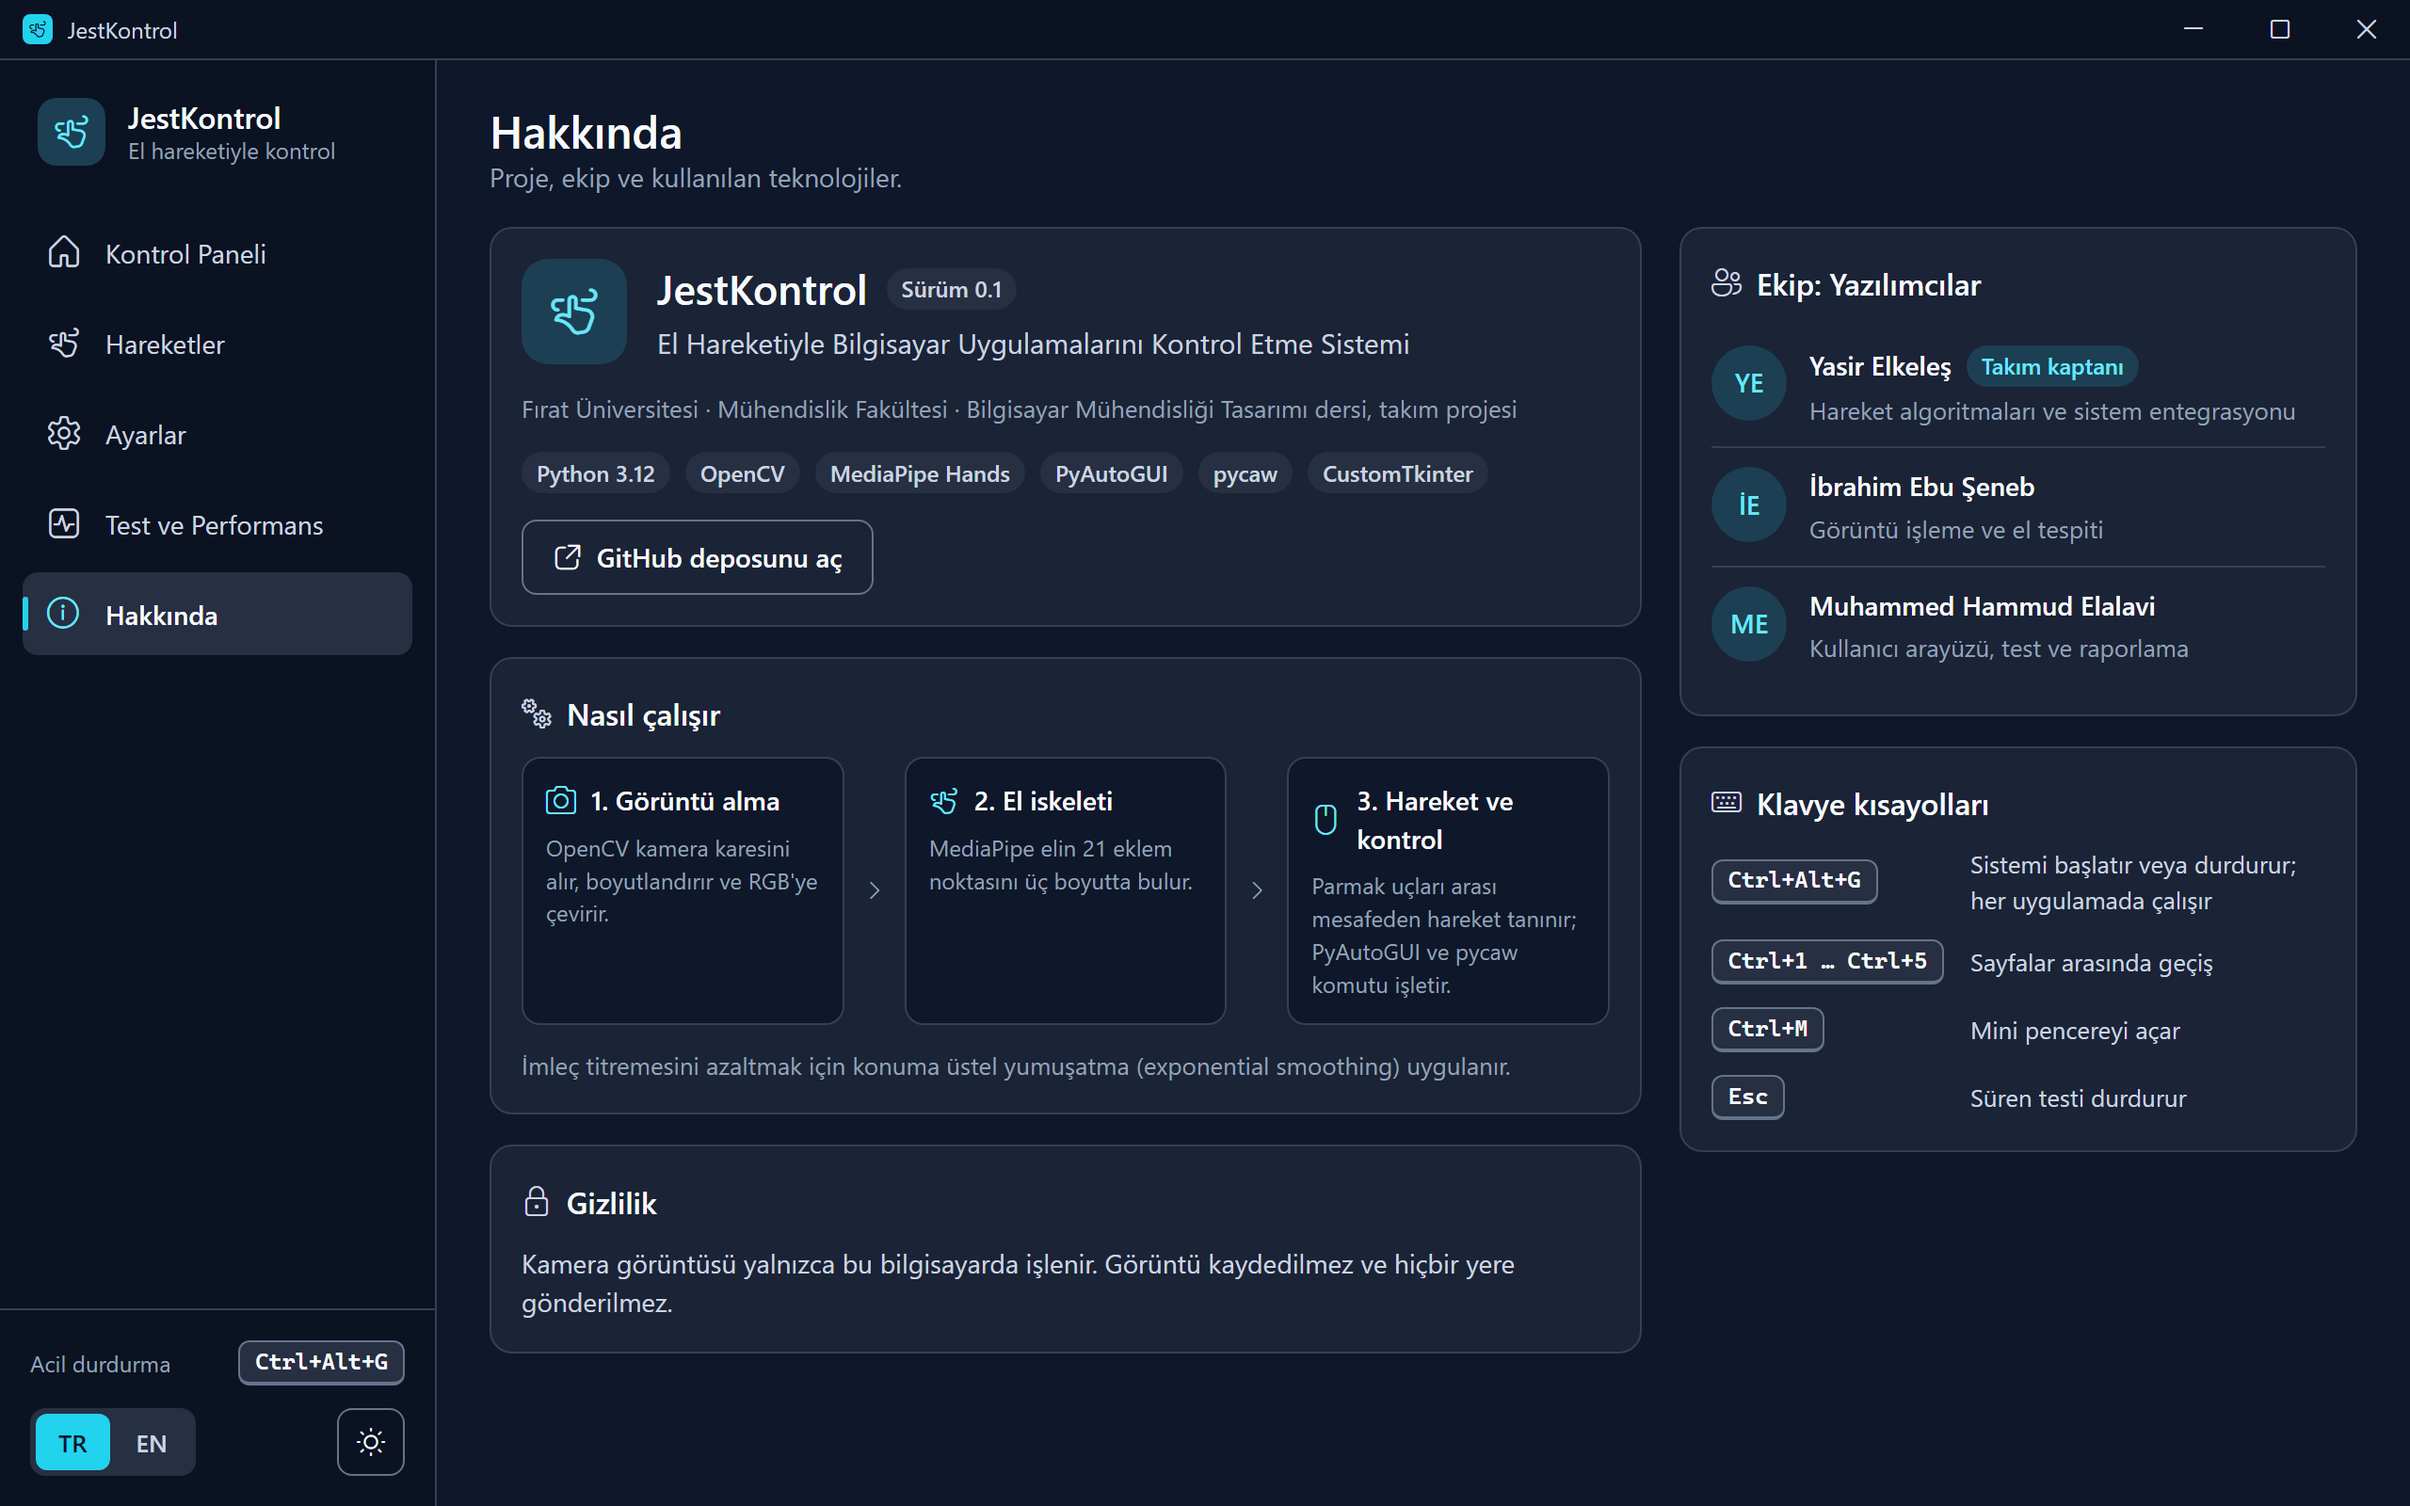
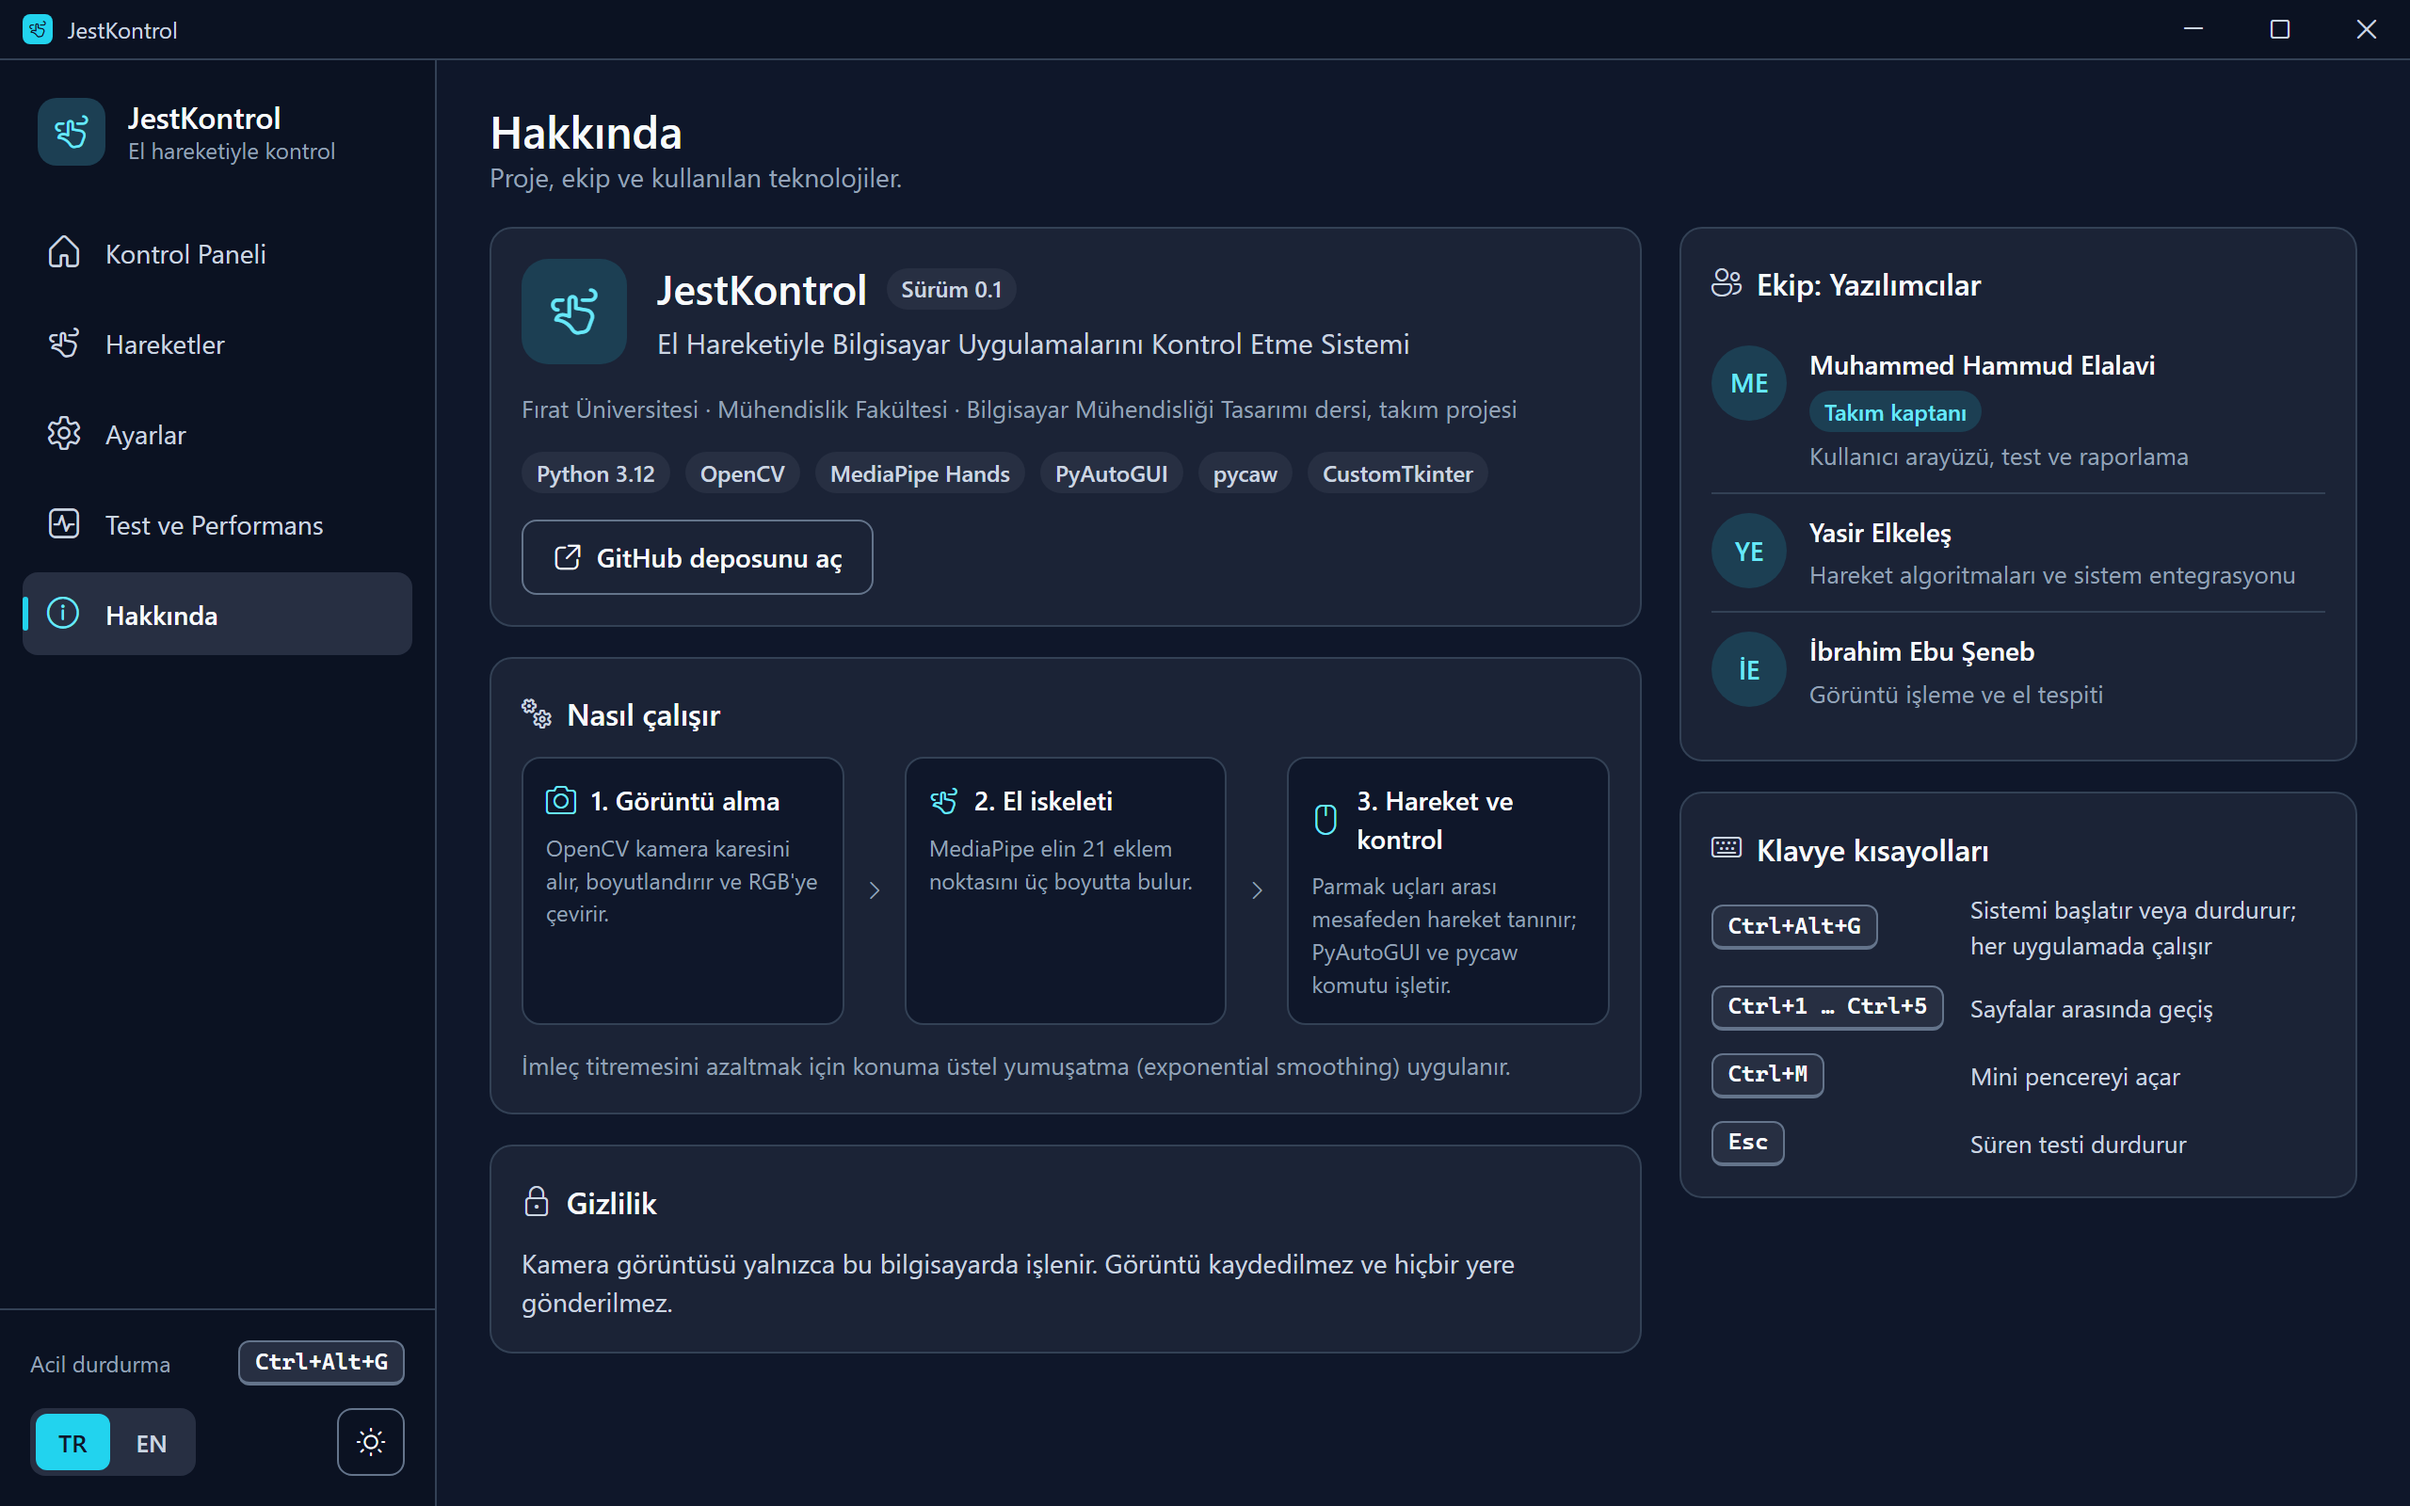
Show the confirmed team captain and member roles on the About page
The requirements report names Muhammed Hammud Elalavi as team captain;
the About mockup still listed Yasir Elkeleş. Fix the mockup (HTML and its
PNG, re-rendered pixel-identically elsewhere) and show each member's role
plus a GitHub repository button in the app, as the design intends.

Changed region(s): [[0.6875, 0.2188, 0.9688, 0.4688], [0.7188, 0.5, 0.9375, 0.7812]]

diff --git a/design/project/About.dc.html b/design/project/About.dc.html
@@ -92,9 +92,16 @@ body{margin:0}
             <div class="card-h"><span class="ic" aria-hidden="true">&#xE716;</span><h2 class="card-t">Ekip: Yazılımcılar</h2></div>
             <ul style="list-style: none; margin: 0; padding: 0; display: flex; flex-direction: column">
               <li style="display: flex; gap: 12px; padding: 10px 0">
+                <span class="avatar" aria-hidden="true">ME</span>
+                <div style="display: flex; flex-direction: column; gap: 3px; min-width: 0">
+                  <div style="display: flex; flex-wrap: wrap; align-items: center; gap: 4px 8px"><span style="font-weight: 600">Muhammed Hammud Elalavi</span><span class="badge">Takım kaptanı</span></div>
+                  <span class="cap" style="font-size: 13px">Kullanıcı arayüzü, test ve raporlama</span>
+                </div>
+              </li>
+              <li style="display: flex; gap: 12px; padding: 10px 0; border-top: 1px solid var(--border)">
                 <span class="avatar" aria-hidden="true">YE</span>
                 <div style="display: flex; flex-direction: column; gap: 3px; min-width: 0">
-                  <div style="display: flex; align-items: center; gap: 8px"><span style="font-weight: 600">Yasir Elkeleş</span><span class="badge">Takım kaptanı</span></div>
+                  <span style="font-weight: 600">Yasir Elkeleş</span>
                   <span class="cap" style="font-size: 13px">Hareket algoritmaları ve sistem entegrasyonu</span>
                 </div>
               </li>
@@ -103,13 +110,6 @@ body{margin:0}
                 <div style="display: flex; flex-direction: column; gap: 3px; min-width: 0">
                   <span style="font-weight: 600">İbrahim Ebu Şeneb</span>
                   <span class="cap" style="font-size: 13px">Görüntü işleme ve el tespiti</span>
-                </div>
-              </li>
-              <li style="display: flex; gap: 12px; padding: 10px 0; border-top: 1px solid var(--border)">
-                <span class="avatar" aria-hidden="true">ME</span>
-                <div style="display: flex; flex-direction: column; gap: 3px; min-width: 0">
-                  <span style="font-weight: 600">Muhammed Hammud Elalavi</span>
-                  <span class="cap" style="font-size: 13px">Kullanıcı arayüzü, test ve raporlama</span>
                 </div>
               </li>
             </ul>

diff --git a/src/jestkontrol/ui/pages/about.py b/src/jestkontrol/ui/pages/about.py
@@ -1,15 +1,23 @@
 """About: project information, how it works, privacy, team and shortcuts."""
 
+import webbrowser
+
 import customtkinter as ctk
 
 from jestkontrol.ui.context import UiContext
 from jestkontrol.ui.pages.base import PAGE_PADDING, Page
+from jestkontrol.ui.widgets.controls import make_button
 from jestkontrol.ui.widgets.surfaces import Card, KeyChip, Pill, card_header
 
 VERSION = "0.1"
+REPOSITORY_URL = "https://github.com/yasir-keles/El-Hareketleriyle-Bilgisayar-Uygulamalar-n-Kontrol-Etme-Sistemi"
 TECHNOLOGIES = ("Python 3.12", "OpenCV", "MediaPipe Hands", "PyAutoGUI", "pycaw", "CustomTkinter")
-# As listed in the requirements report (Hafta2_Gereksinim_Analiz_Raporu.docx).
-TEAM = (("Muhammed Hammud Elalavi", True), ("Yasir Elkeleş", False), ("İbrahim Ebu Şeneb", False))
+# (name, is captain, role) as in the requirements report (Hafta2_Gereksinim_Analiz_Raporu.docx).
+TEAM = (
+    ("Muhammed Hammud Elalavi", True, "about.role.interface"),
+    ("Yasir Elkeleş", False, "about.role.gestures"),
+    ("İbrahim Ebu Şeneb", False, "about.role.vision"),
+)
 FIXED_SHORTCUTS = (
     ("Ctrl+1 … Ctrl+5", "about.shortcut.pages"),
     ("Ctrl+M", "about.shortcut.mini"),
@@ -57,9 +65,12 @@ class AboutPage(Page):
         ctk.CTkLabel(card, text=ctx.t("about.project"), anchor="w", font=ctx.theme.font("body"), text_color=c.text_2).grid(row=1, column=1, sticky="w")
         ctk.CTkLabel(card, text=ctx.t("about.course"), anchor="w", font=ctx.theme.font("caption"), text_color=c.text_muted).grid(row=2, column=1, sticky="w", pady=(0, 6))
         badges = ctk.CTkFrame(card, fg_color="transparent")
-        badges.grid(row=3, column=0, columnspan=2, sticky="w", padx=20, pady=(0, 18))
+        badges.grid(row=3, column=0, columnspan=2, sticky="w", padx=20, pady=(0, 12))
         for name in TECHNOLOGIES:
             Pill(badges, ctx, name, "primary").pack(side="left", padx=(0, 8))
+        make_button(
+            card, ctx, ctx.t("about.github"), icon="external_link", command=lambda: webbrowser.open(REPOSITORY_URL)
+        ).grid(row=4, column=0, columnspan=2, sticky="w", padx=20, pady=(0, 18))
 
     def _build_how_it_works(self, body) -> None:
         ctx = self.ctx
@@ -75,12 +86,15 @@ class AboutPage(Page):
     def _build_team(self, body) -> None:
         ctx, c = self.ctx, self.ctx.colors
         card = self._card(body, 2, 0, ctx.t("about.team.title"), "people")
-        for index, (name, captain) in enumerate(TEAM, start=1):
-            row = ctk.CTkFrame(card, fg_color="transparent")
-            row.grid(row=index, column=0, sticky="w", padx=20, pady=(0, 8))
-            ctk.CTkLabel(row, text=name, font=ctx.theme.font("body"), text_color=c.text).pack(side="left")
+        for index, (name, captain, role_key) in enumerate(TEAM, start=1):
+            member = ctk.CTkFrame(card, fg_color="transparent")
+            member.grid(row=index, column=0, sticky="w", padx=20, pady=(0, 10))
+            title = ctk.CTkFrame(member, fg_color="transparent")
+            title.pack(anchor="w")
+            ctk.CTkLabel(title, text=name, font=ctx.theme.font("label"), text_color=c.text, height=22).pack(side="left")
             if captain:
-                Pill(row, ctx, ctx.t("about.team.captain"), "muted").pack(side="left", padx=10)
+                Pill(title, ctx, ctx.t("about.team.captain"), "primary").pack(side="left", padx=10)
+            ctk.CTkLabel(member, text=ctx.t(role_key), font=ctx.theme.font("caption"), text_color=c.text_muted, height=18).pack(anchor="w")
 
     def _build_shortcuts(self, body) -> None:
         ctx, c = self.ctx, self.ctx.colors

diff --git a/src/jestkontrol/application/i18n/catalog_tr.py b/src/jestkontrol/application/i18n/catalog_tr.py
@@ -242,6 +242,10 @@ TURKISH: dict[str, str] = {
     "about.privacy.title": "Gizlilik",
     "about.privacy.text": "Kamera görüntüsü yalnızca bu bilgisayarda işlenir; kaydedilmez ve ağa gönderilmez.",
     "about.team.title": "Ekip",
+    "about.github": "GitHub deposunu aç",
+    "about.role.interface": "Kullanıcı arayüzü, test ve raporlama",
+    "about.role.gestures": "Hareket algoritmaları ve sistem entegrasyonu",
+    "about.role.vision": "Görüntü işleme ve el tespiti",
     "about.team.captain": "Takım kaptanı",
     "about.shortcuts.title": "Kısayollar",
     "about.shortcut.pages": "Sayfalar arası geçiş",

diff --git a/src/jestkontrol/application/i18n/catalog_en.py b/src/jestkontrol/application/i18n/catalog_en.py
@@ -242,6 +242,10 @@ ENGLISH: dict[str, str] = {
     "about.privacy.title": "Privacy",
     "about.privacy.text": "Camera video is processed only on this computer; it is never recorded or sent over the network.",
     "about.team.title": "Team",
+    "about.github": "Open the GitHub repository",
+    "about.role.interface": "User interface, testing and reporting",
+    "about.role.gestures": "Gesture algorithms and system integration",
+    "about.role.vision": "Image processing and hand detection",
     "about.team.captain": "Team captain",
     "about.shortcuts.title": "Shortcuts",
     "about.shortcut.pages": "Switch pages",
